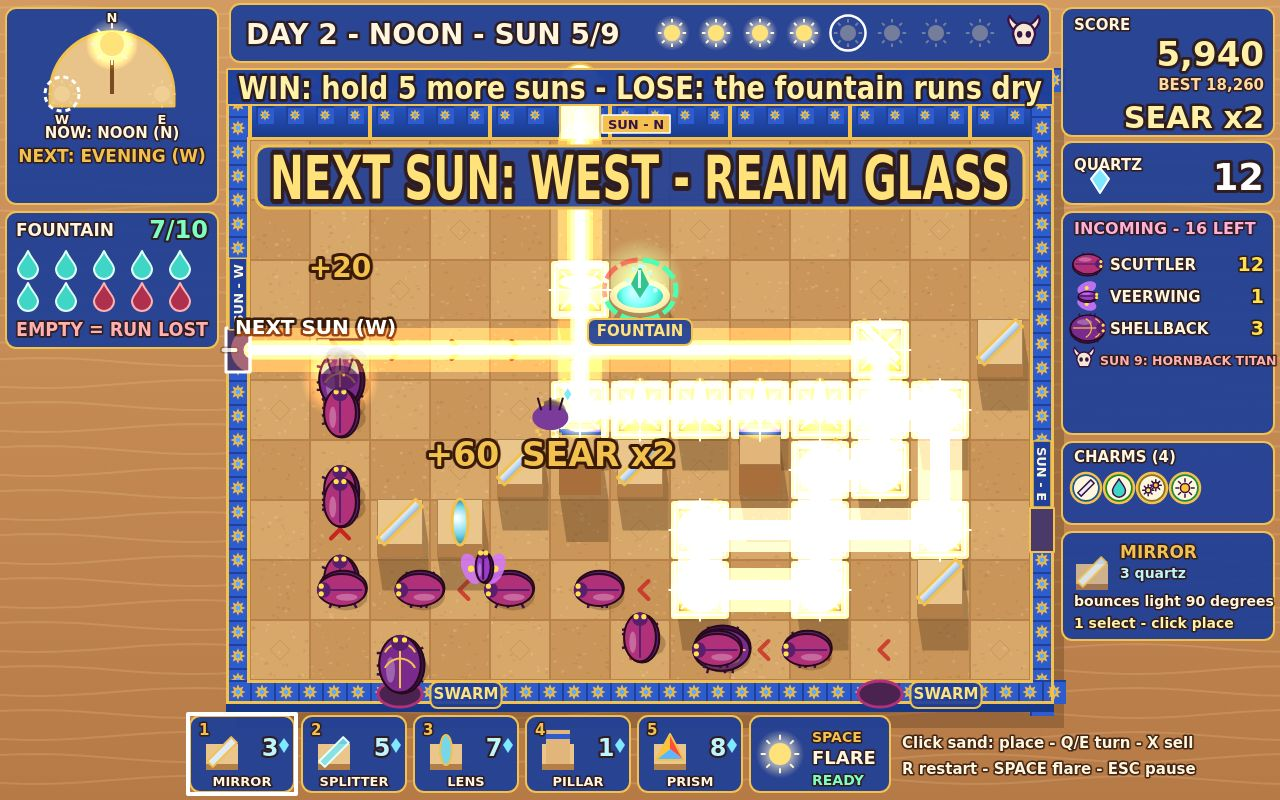
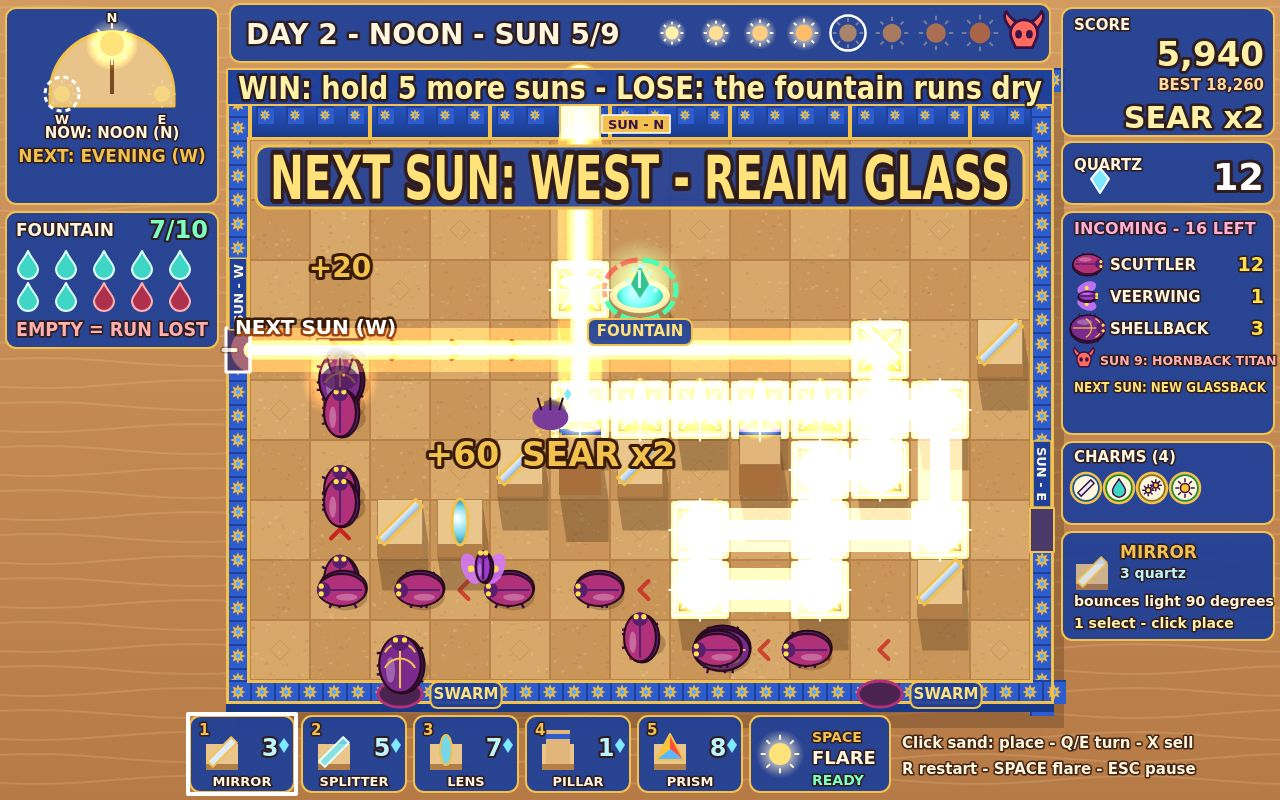
Escalation: sun track grows from pale to deep orange with a big red Titan skull; INCOMING shows NEXT SUN: +n / NEW from the wave tables (truth-checked)

Changed region(s): [[0.625, 0.0, 0.8125, 0.0625], [0.8438, 0.4375, 1.0, 0.5], [0.5, 0.0, 0.5938, 0.0625]]

diff --git a/game/src/render/hud.js b/game/src/render/hud.js
@@ -8,7 +8,7 @@ import { chainMultiplier, chainWindow } from '../combat.js';
 import { enemiesRemaining, liftRefund, pieceCost, pieceUnlocked } from '../sim.js';
 import { currentBanner, winLoseHeadline } from '../announce.js';
 import { sunApertureFor } from '../sun.js';
-import { waveRoster } from '../waves.js';
+import { nextSunPreview, waveRoster } from '../waves.js';
 import { drawEnemy } from './beetles.js';
 import { drawCharmBadge } from './charms.js';
 import { BOARD_W, BOARD_X, BOARD_Y, CELL, QUARTZ_ANCHOR, VIEW_W, WALL } from './layout.js';
@@ -58,7 +58,7 @@ function panel(ctx, x, y, w, h) {
   ctx.stroke();
 }
 
-function sunGlyph(ctx, x, y, r, lit) {
+function sunGlyph(ctx, x, y, r, lit, color = '#FFE27A') {
   ctx.save();
   if (lit) {
     ctx.globalCompositeOperation = 'lighter';
@@ -69,10 +69,12 @@ function sunGlyph(ctx, x, y, r, lit) {
     ctx.fillRect(x - r * 2.2, y - r * 2.2, r * 4.4, r * 4.4);
     ctx.globalCompositeOperation = 'source-over';
   }
-  ctx.fillStyle = lit ? '#FFE27A' : 'rgba(255,230,170,0.35)';
+  ctx.globalAlpha = lit ? 1 : 0.6;
+  ctx.fillStyle = color;
   ctx.beginPath();
   ctx.arc(x, y, r, 0, Math.PI * 2);
   ctx.fill();
+  ctx.globalAlpha = 1;
   ctx.strokeStyle = lit ? '#FFF6DF' : 'rgba(255,230,170,0.35)';
   ctx.lineWidth = 2;
   ctx.beginPath();
@@ -86,9 +88,9 @@ function sunGlyph(ctx, x, y, r, lit) {
 }
 
 /** The Hornback Titan's horned skull (sun track, INCOMING row, results). */
-export function drawTitanSkull(ctx, x, y, r, crossed = false) {
+export function drawTitanSkull(ctx, x, y, r, crossed = false, bone = '#F4E9D2') {
   ctx.save();
-  ctx.fillStyle = '#F4E9D2';
+  ctx.fillStyle = bone;
   ctx.strokeStyle = '#3B1247';
   ctx.lineWidth = Math.max(1.5, r / 6);
   ctx.beginPath();
@@ -133,8 +135,10 @@ export function drawTitanSkull(ctx, x, y, r, crossed = false) {
 export function drawSunTrack(ctx, x, y, spacing, r, held, current) {
   for (let k = 0; k < WAVE_COUNT; k++) {
     const gx = x + k * spacing;
-    if (k === WAVE_COUNT - 1) drawTitanSkull(ctx, gx, y + 2, r * 1.05, held >= WAVE_COUNT);
-    else sunGlyph(ctx, gx, y, r * 0.62, k < held);
+    // Suns grow and burn hotter towards the end: pale yellow at sun 1, deep orange at sun 8.
+    const heat = k / (WAVE_COUNT - 2);
+    if (k === WAVE_COUNT - 1) drawTitanSkull(ctx, gx, y + 2, r * 1.3, held >= WAVE_COUNT, '#FF6B5E');
+    else sunGlyph(ctx, gx, y, r * (0.5 + 0.3 * heat), k < held, `rgb(255,${Math.round(240 - 118 * heat)},${Math.round(170 - 150 * heat)})`);
     if (k === current) {
       ctx.strokeStyle = '#FFFFFF';
       ctx.lineWidth = 2.5;
@@ -303,8 +307,21 @@ function drawIncoming(ctx, run, y0) {
     y += 32;
   }
   const titanLeft = run.waveIndex === WAVE_COUNT - 1 && inWave ? left.get('titan') ?? 0 : 1;
-  drawTitanSkull(ctx, x0 + 22, y, 9, titanLeft === 0);
+  drawTitanSkull(ctx, x0 + 22, y, 9, titanLeft === 0, '#FF6B5E');
   text(ctx, `${NAMES.sun} ${WAVE_COUNT}: ${NAMES.enemy.titan}`, x0 + 38, y + 5, 12.5, '#FFB0B0', 'left', 900);
+  const preview = nextSunPreview(run.waveIndex, run.diff, (t) => ENEMIES[t].name);
+  if (preview) fitLine(ctx, preview, x0 + 12, y + 32, PANEL_W - 20, 14, '#FFE27A');
+}
+
+/** One HUD line squeezed horizontally to fit maxW. */
+function fitLine(ctx, str, x, y, maxW, size, color) {
+  ctx.font = `900 ${size}px ${FONT}`;
+  const squeeze = Math.min(1, maxW / ctx.measureText(str).width);
+  ctx.save();
+  ctx.translate(x, y);
+  ctx.scale(squeeze, 1);
+  text(ctx, str, 0, 0, size, color, 'left', 900);
+  ctx.restore();
 }
 
 /** Owned glass charms as small medallions. */

diff --git a/game/src/waves.js b/game/src/waves.js
@@ -26,6 +26,19 @@ export function firstWaveOf(type) {
   return WAVES.findIndex((groups) => groups.some((g) => g[0] === type));
 }
 
+/** What the next sun adds over this one, from the wave tables: first-ever kinds, then the biggest rises. */
+export function nextSunPreview(waveIndex, diff, nameOf) {
+  if (waveIndex + 1 >= WAVES.length) return '';
+  const now = new Map(waveRoster(waveIndex, diff).map((r) => [r.type, r.count]));
+  const changes = waveRoster(waveIndex + 1, diff)
+    .map((r) => ({ type: r.type, isNew: firstWaveOf(r.type) === waveIndex + 1, more: r.count - (now.get(r.type) ?? 0) }))
+    .filter((c) => c.isNew || c.more > 0)
+    .sort((a, b) => b.isNew - a.isNew || b.more - a.more)
+    .slice(0, 2)
+    .map((c) => (c.isNew ? `NEW ${nameOf(c.type)}` : `+${c.more} ${nameOf(c.type)}`));
+  return changes.length ? `NEXT SUN: ${changes.join(', ')}` : '';
+}
+
 export function waveSize(waveIndex, diff) {
   return buildWaveSchedule(waveIndex, diff).length;
 }

diff --git a/game/src/testhook.js b/game/src/testhook.js
@@ -1,7 +1,8 @@
 // A tiny test hook for the staging and playtest tools (only with ?test=1 in the URL): the page
 // stops advancing on its own and the tools step the real fixed-step loop, queue real orders,
 // point the mouse, and read back the numbers the HUD shows.
-import { WAVE_COUNT } from './config.js';
+import { ENEMIES, WAVE_COUNT } from './config.js';
+import { nextSunPreview } from './waves.js';
 import { enemiesRemaining } from './sim.js';
 import { rankFor } from './combat.js';
 import { currentBanner, winLoseHeadline } from './announce.js';
@@ -123,6 +124,7 @@ export function installTestHook(app, api) {
         sunsHeld: run.stats.wavesCleared,
         offersSeen: run.stats.offersSeen,
         rank: rankFor(run),
+        nextSun: nextSunPreview(run.waveIndex, run.diff, (t) => ENEMIES[t].name),
         best: app.ui.best,
         history: loadHistory().slice(-3),
         tick: run.tick,

diff --git a/NOTES.md b/NOTES.md
@@ -127,6 +127,11 @@
   yet, so the cover's solved-plan ratio is reported, not enforced. Defeat title fit now measured
   after the overlay shows (it overflowed before).
 
+- Benchmark 3 item 8: sun track grows and warms from pale yellow (sun 1) to deep orange (sun 8),
+  sun 9 a big red Titan skull; INCOMING ends with "NEXT SUN: +4 SCUTTLER, NEW GLASSBACK" from
+  waves.nextSunPreview (first-ever kinds, then biggest rises), truth-checked. README carries the three
+  live make.fun badges (kit repo_readme check).
+
 ## Next
 - M3 feel (rest): hit-stop-like pop on SEAR steps, fountain pip crack, quartz counter pulse,
   colour-blind beam patterns (option), How to play illustrated panels.
